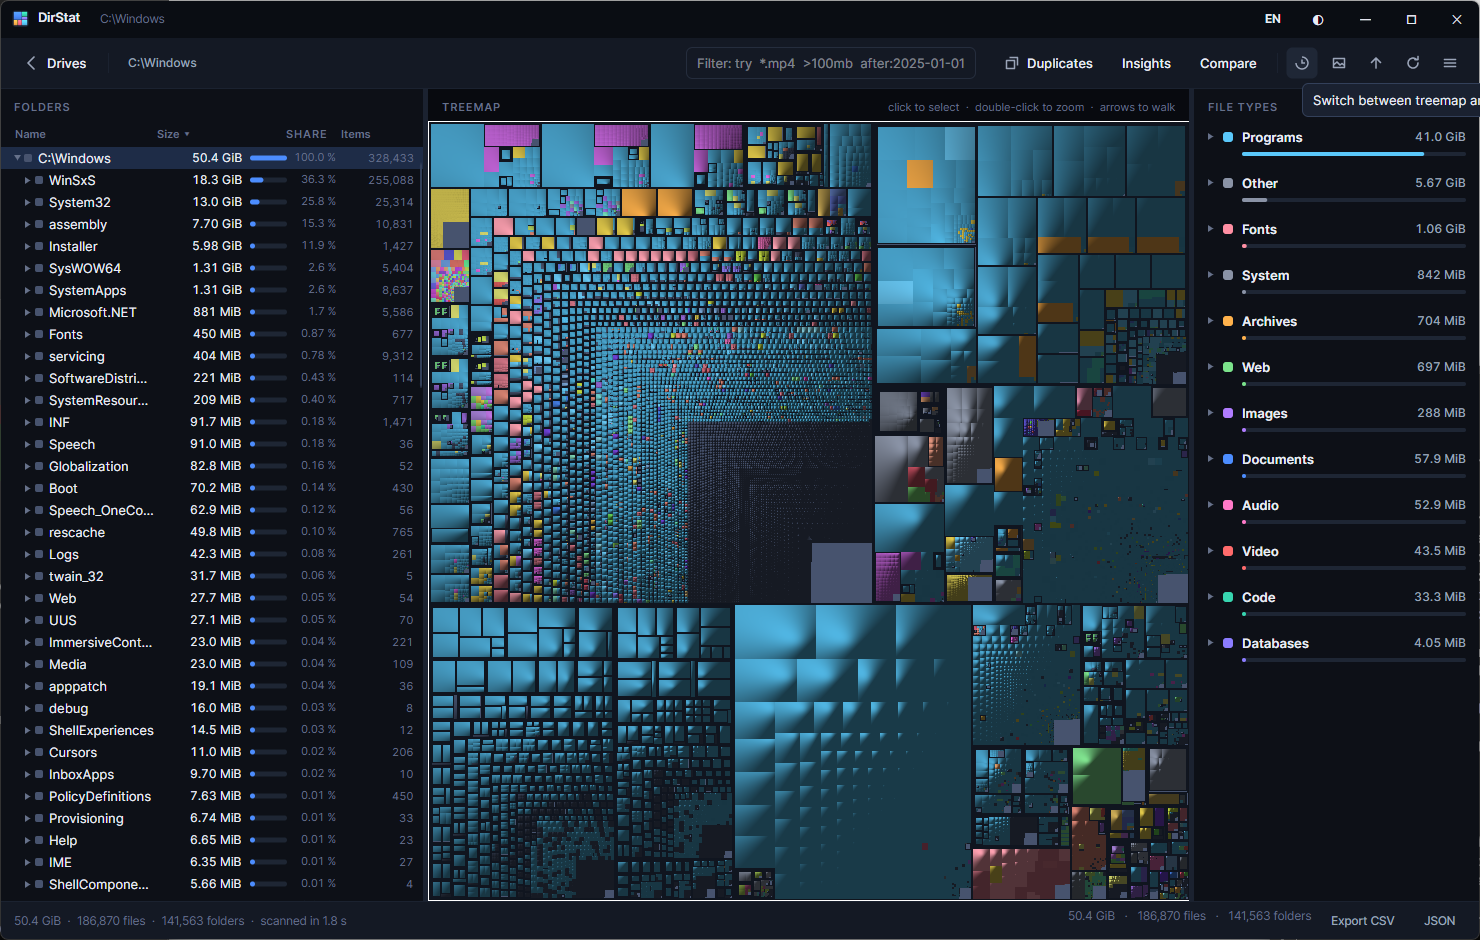
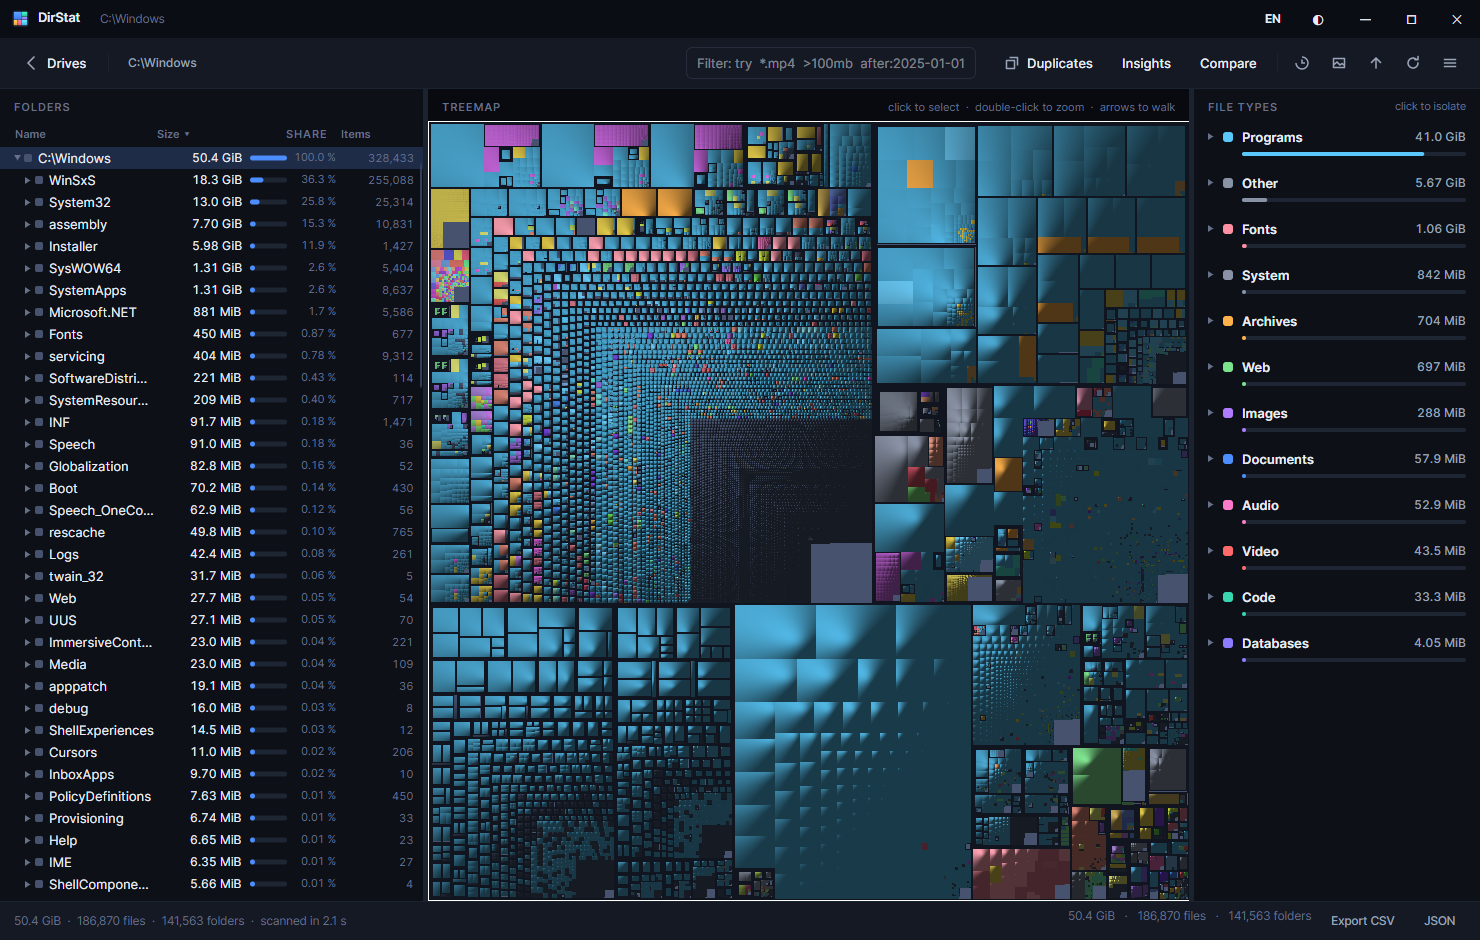
Fix the sunburst overflowing its pane
The rings were sized from one measure of depth and laid out with another.
MeasureDepth followed only the largest-child chain, while AddChildren
recursed down every surviving branch to MaxDepth, so a tree whose biggest
child is shallow and whose smaller sibling runs deep had its rings cut for
one ring and used to draw seven. On a 600px canvas the disc reached 1558px
— six times the intended radius, with everything past the first ring drawn
outside the canvas and clipped away. C:\Windows hit this squarely: WinSxS
is deep, but the largest-child chain is short.

Angles do not depend on radius, so the layout now settles every angle
first, observes the depth it actually emitted, and only then converts
depth to radius. One number sizes the rings and caps the recursion, which
makes the fit exact by construction rather than by estimate: the outermost
ring lands on the radius to the pixel whether the tree is one level or
seven.

Sizing by the deepest branch alone had its own cost — on C:\Windows the
outer two rings covered 2.2% and 0.4% of the circle while claiming 29% of
the radius, shrinking the rings holding the rest for no gain. Rings are
now drawn while they still carry a real share of the turn, which is what
the old largest-child heuristic was reaching for. Ring thickness on that
scan goes from 39px to 55px, dropping 13 of 249 segments.

Recaptures the three screenshots this affected. The treemap shot also had
[…]

diff --git a/src/DirStat.Core/Treemap/SunburstLayout.cs b/src/DirStat.Core/Treemap/SunburstLayout.cs
@@ -66,6 +66,18 @@ public sealed class SunburstOptions
     /// <summary>Fraction of the radius left empty at the centre, where the root label sits.</summary>
     public double HoleFraction { get; set; } = 0.16;
 
+    /// <summary>
+    /// A ring is drawn only if its segments cover at least this share of a full turn.
+    /// </summary>
+    /// <remarks>
+    /// One deep chain of narrow slices should not set the scale for the whole picture. On a
+    /// Windows directory the seventh ring covers well under a percent of the circle while
+    /// claiming a seventh of the radius, which shrinks the rings holding the other 99% for no
+    /// gain. Stopping where the rings stop carrying anything spends the radius on what can
+    /// actually be read.
+    /// </remarks>
+    public double MinimumRingCoverage { get; set; } = 0.05;
+
     /// <summary>Lighting for the shaded fill, matching the treemap's upper-left source.</summary>
     public double Ambient { get; set; } = 0.42;
 }
@@ -106,16 +118,32 @@ public static class SunburstLayout
 
         var hole = radius * options.HoleFraction;
 
-        // Divide the radius by how deep the tree actually goes, not by the cap. A three-level
-        // tree drawn in sevenths would leave most of the circle empty and the rings too thin
-        // to read, which is the opposite of what this view is for.
-        var effectiveDepth = Math.Clamp(MeasureDepth(root, options.MaxDepth), 1, options.MaxDepth);
-        var ringThickness = (radius - hole) / effectiveDepth;
-
-        var segments = new List<SunburstSegment>(1024);
+        // Angles first, radii second. A sweep depends only on a node's share of its parent, so
+        // the whole angular layout can be built without knowing how thick a ring will be. That
+        // ordering is what makes the fit exact: rather than predicting how deep the tree will
+        // draw and dividing the radius by the guess, this measures the depth actually emitted
+        // and divides by that. A shallow tree fills the circle and a deep one still ends at the
+        // rim, because the outermost ring is by construction the one the radius was cut for.
+        var slices = new List<Slice>(1024);
         var deepest = 0;
 
-        AddChildren(root, 0, Math.Tau, 1, hole, ringThickness, options, segments, ref deepest);
+        AddChildren(root, 0, Math.Tau, 1, options, slices, ref deepest);
+
+        // One number decides both how many rings are drawn and how thick they are. Deriving the
+        // two independently is what let the disc overflow: rings cut for a shallow tree were
+        // used to lay out a deep one, and the outermost ring landed several times past the rim.
+        var drawnDepth = LegibleDepth(slices, deepest, options.MinimumRingCoverage);
+        var ringThickness = (radius - hole) / drawnDepth;
+
+        var segments = new List<SunburstSegment>(slices.Count);
+        foreach (var slice in slices)
+        {
+            if (slice.Depth > drawnDepth) continue;
+
+            var inner = hole + (slice.Depth - 1) * ringThickness;
+            segments.Add(new SunburstSegment(
+                slice.Node, slice.StartAngle, slice.EndAngle, inner, inner + ringThickness, slice.Depth));
+        }
 
         return new SunburstModel
         {
@@ -127,44 +155,43 @@ public static class SunburstLayout
             CentreY = centreY,
             RingThickness = ringThickness,
             HoleRadius = hole,
-            MaxDepth = deepest,
+            MaxDepth = drawnDepth,
         };
     }
 
     /// <summary>
-    /// How many levels the tree actually has below the root, stopping at <paramref name="cap"/>.
+    /// The deepest ring still worth spending radius on: the last one whose segments cover at
+    /// least <paramref name="minimumCoverage"/> of a full turn.
     /// </summary>
     /// <remarks>
-    /// Only branches large enough to survive the sliver cull matter, so this follows the
-    /// largest child at each level rather than exploring everything — the deepest chain of
-    /// hair-thin slices would otherwise stretch the rings for segments nobody can see.
+    /// Coverage never increases with depth, since a child's sweep is a share of its parent's
+    /// and culling only removes, so the first ring below the threshold ends the disc and no
+    /// populated ring is ever stranded outside it.
     /// </remarks>
-    private static int MeasureDepth(FileNode root, int cap)
+    private static int LegibleDepth(List<Slice> slices, int deepest, double minimumCoverage)
     {
-        var depth = 0;
-        var node = root;
+        if (deepest <= 1) return 1;
 
-        while (depth < cap)
+        var covered = new double[deepest + 1];
+        foreach (var slice in slices) covered[slice.Depth] += slice.EndAngle - slice.StartAngle;
+
+        var depth = 1;
+        for (var d = 1; d <= deepest; d++)
         {
-            var children = node.Children;
-            if (children is null || children.Length == 0) break;
-
-            // Children arrive sorted by descending size, so the first is the widest slice.
-            var largest = children.FirstOrDefault(c => c.Size > 0 && !c.IsSynthetic);
-            if (largest is null) break;
-
-            depth++;
-            node = largest;
+            if (covered[d] / Math.Tau < minimumCoverage) break;
+            depth = d;
         }
 
         return depth;
     }
 
+    /// <summary>A segment with its angles settled but its radius not yet known.</summary>
+    private readonly record struct Slice(FileNode Node, double StartAngle, double EndAngle, int Depth);
+
     /// <summary>Distributes a node's children across the angular span it occupies.</summary>
     private static void AddChildren(
         FileNode node, double startAngle, double endAngle, int depth,
-        double hole, double ringThickness, SunburstOptions options,
-        List<SunburstSegment> segments, ref int deepest)
+        SunburstOptions options, List<Slice> slices, ref int deepest)
     {
         if (depth > options.MaxDepth) return;
 
@@ -172,10 +199,6 @@ public static class SunburstLayout
         if (children is null || children.Length == 0) return;
         if (node.Size <= 0) return;
 
-        if (depth > deepest) deepest = depth;
-
-        var inner = hole + (depth - 1) * ringThickness;
-        var outer = inner + ringThickness;
         var available = endAngle - startAngle;
         var cursor = startAngle;
 
@@ -191,10 +214,13 @@ public static class SunburstLayout
                 continue;
             }
 
-            segments.Add(new SunburstSegment(child, cursor, cursor + sweep, inner, outer, depth));
+            // Counted here rather than on entry, so a ring whose children were all culled does
+            // not claim a share of the radius it never draws in.
+            if (depth > deepest) deepest = depth;
 
-            AddChildren(child, cursor, cursor + sweep, depth + 1,
-                hole, ringThickness, options, segments, ref deepest);
+            slices.Add(new Slice(child, cursor, cursor + sweep, depth));
+
+            AddChildren(child, cursor, cursor + sweep, depth + 1, options, slices, ref deepest);
 
             cursor += sweep;
         }

diff --git a/tests/DirStat.Core.Tests/SunburstTests.cs b/tests/DirStat.Core.Tests/SunburstTests.cs
@@ -125,6 +125,113 @@ public class SunburstTests
         Assert.All(model.Segments, s => Assert.True(s.Depth <= 5));
     }
 
+    /// <summary>
+    /// A tree whose largest child is shallow but whose smaller sibling runs deep.
+    /// </summary>
+    /// <remarks>
+    /// The shape that matters: sizing the rings by following the largest child alone reports
+    /// one level here while the layout actually draws seven, so the rings are cut for a disc
+    /// six times larger than the canvas and everything past the first is clipped away.
+    /// </remarks>
+    private static FileNode LopsidedTree()
+    {
+        var root = new FileNode("root", NodeFlags.Directory | NodeFlags.Root);
+
+        var big = new FileNode("big.bin") { Parent = root, Size = 10_000_000 };
+
+        var deep = new FileNode("deep", NodeFlags.Directory) { Parent = root, Size = 5_000_000 };
+        var cursor = deep;
+        for (var i = 0; i < 8; i++)
+        {
+            var child = new FileNode($"level{i}", NodeFlags.Directory) { Parent = cursor, Size = 5_000_000 };
+            cursor.Children = [child];
+            cursor = child;
+        }
+
+        root.Children = [big, deep];
+        root.Size = 15_000_000;
+        root.SortBySizeDescending();
+        return root;
+    }
+
+    [Theory]
+    [InlineData(400)]
+    [InlineData(600)]
+    [InlineData(1024)]
+    public void No_segment_reaches_outside_the_canvas(int size)
+    {
+        foreach (var root in new[] { NestedTree(), LopsidedTree() })
+        {
+            var model = SunburstLayout.Build(root, size, size);
+            var limit = Math.Min(model.CentreX, model.CentreY);
+
+            Assert.All(model.Segments, s =>
+                Assert.True(s.OuterRadius <= limit,
+                    $"segment at depth {s.Depth} reaches {s.OuterRadius:F1}, past the {limit:F1} half-canvas"));
+        }
+    }
+
+    [Fact]
+    public void The_outermost_ring_ends_exactly_at_the_radius()
+    {
+        // Shallow and deep alike: whatever depth is drawn, the rings are cut to fill the disc.
+        foreach (var root in new[] { NestedTree(), LopsidedTree() })
+        {
+            var model = SunburstLayout.Build(root, 600, 600);
+            var outermost = model.Segments.Max(s => s.OuterRadius);
+
+            Assert.Equal(600 / 2.0 * 0.86, outermost, precision: 2);
+        }
+    }
+
+    [Fact]
+    public void A_ring_that_carries_almost_nothing_does_not_claim_a_share_of_the_radius()
+    {
+        // One wide branch and a hair-thin chain trailing off underneath it. Drawing the chain
+        // to full depth would spend most of the radius on rings covering a sliver of the turn.
+        var root = new FileNode("root", NodeFlags.Directory | NodeFlags.Root);
+        var bulk = new FileNode("bulk.bin") { Parent = root, Size = 100_000_000 };
+
+        var thread = new FileNode("thread", NodeFlags.Directory) { Parent = root, Size = 1_000_000 };
+        var cursor = thread;
+        for (var i = 0; i < 6; i++)
+        {
+            var child = new FileNode($"n{i}", NodeFlags.Directory) { Parent = cursor, Size = 1_000_000 };
+            cursor.Children = [child];
+            cursor = child;
+        }
+
+        root.Children = [bulk, thread];
+        root.Size = 101_000_000;
+        root.SortBySizeDescending();
+
+        var model = SunburstLayout.Build(root, 600, 600);
+
+        // The thread is under 1% of the circle, so it should not set the scale for the disc.
+        Assert.True(model.MaxDepth <= 2, $"drew {model.MaxDepth} rings for a 1% branch");
+
+        // And the rings that are drawn still reach the rim exactly.
+        Assert.Equal(600 / 2.0 * 0.86, model.Segments.Max(s => s.OuterRadius), precision: 2);
+    }
+
+    [Fact]
+    public void A_deep_branch_that_carries_real_weight_is_still_drawn()
+    {
+        // The counterpart: a third of the circle running deep is worth the radius it costs.
+        var model = SunburstLayout.Build(LopsidedTree(), 600, 600);
+
+        Assert.True(model.MaxDepth >= 5, $"only drew {model.MaxDepth} rings for a 33% branch");
+    }
+
+    [Fact]
+    public void Ring_thickness_is_uniform_across_the_disc()
+    {
+        var model = SunburstLayout.Build(LopsidedTree(), 600, 600);
+
+        Assert.All(model.Segments, s =>
+            Assert.Equal(model.RingThickness, s.OuterRadius - s.InnerRadius, precision: 2));
+    }
+
     [Fact]
     public void Slivers_too_thin_to_see_are_dropped()
     {

diff --git a/README.md b/README.md
@@ -242,7 +242,7 @@ tests/DirStat.Core.Tests
 
 ```sh
 dotnet build                              # build everything
-dotnet test                               # 174 tests
+dotnet test                               # 181 tests
 dotnet run --project src/DirStat.App      # run it
 
 ./build/publish.sh                        # self-contained, host platform
@@ -256,8 +256,9 @@ The suite covers scan aggregation, cancellation, exclusions, symlink and hard-li
 volume enumeration, the filter query language, duplicate detection including folder matching
 and nested suppression, snapshot round-trips, comparison semantics, junk classification, size
 formatting, translation-catalogue parity, and the layout invariants for both charts: full
-coverage, containment, no overlap, and the pre-order emission the treemap renderer depends on
-to carry cushion surfaces down the tree.
+coverage, containment, no overlap, the sunburst ending exactly on its radius whatever shape of
+tree it is given, and the pre-order emission the treemap renderer depends on to carry cushion
+surfaces down the tree.
 
 ---
 
